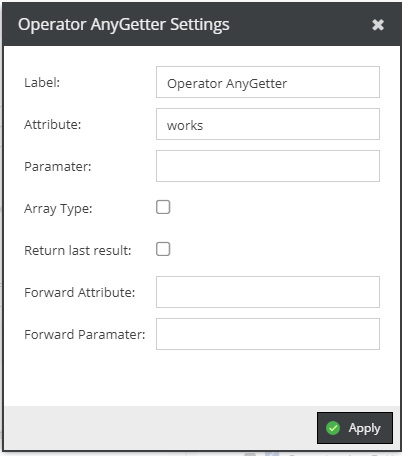
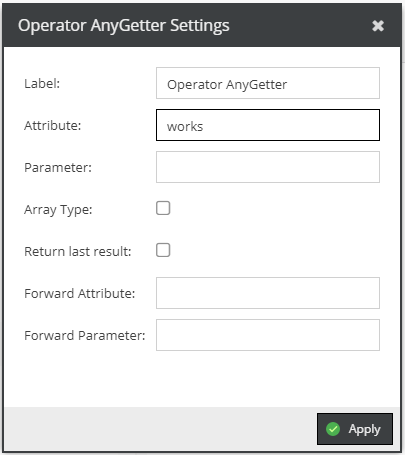
[Importer Docs] add more detail description for AnyGetter #2300

diff --git a/doc/User_Documentation/01_Objects/01_Grid_Configuration_Operators/Operators/02_AnyGetter.md b/doc/User_Documentation/01_Objects/01_Grid_Configuration_Operators/Operators/02_AnyGetter.md
@@ -16,7 +16,7 @@ Please be aware that for fieldcollections there is a special operator which does
 
 * **Label**: The node label
 * **Attribute**: The name of the attribute you want to get
-* **Paramter**: A parameter you want to pass to the attribute getter
+* **Parameter**: A parameter you want to pass to the attribute getter
 * **Array Type**: If true then the getter will be called on all all child result values and the result will be passed up as array.
 * **Return last result**:  Return the last non-empty result even if a child returns an empty result.
 * **Forward Attribute**: By default, child operators use the original object. By defining a `Forward Attribute` you can replace the "target" with the result of the forward attribute's getter.
